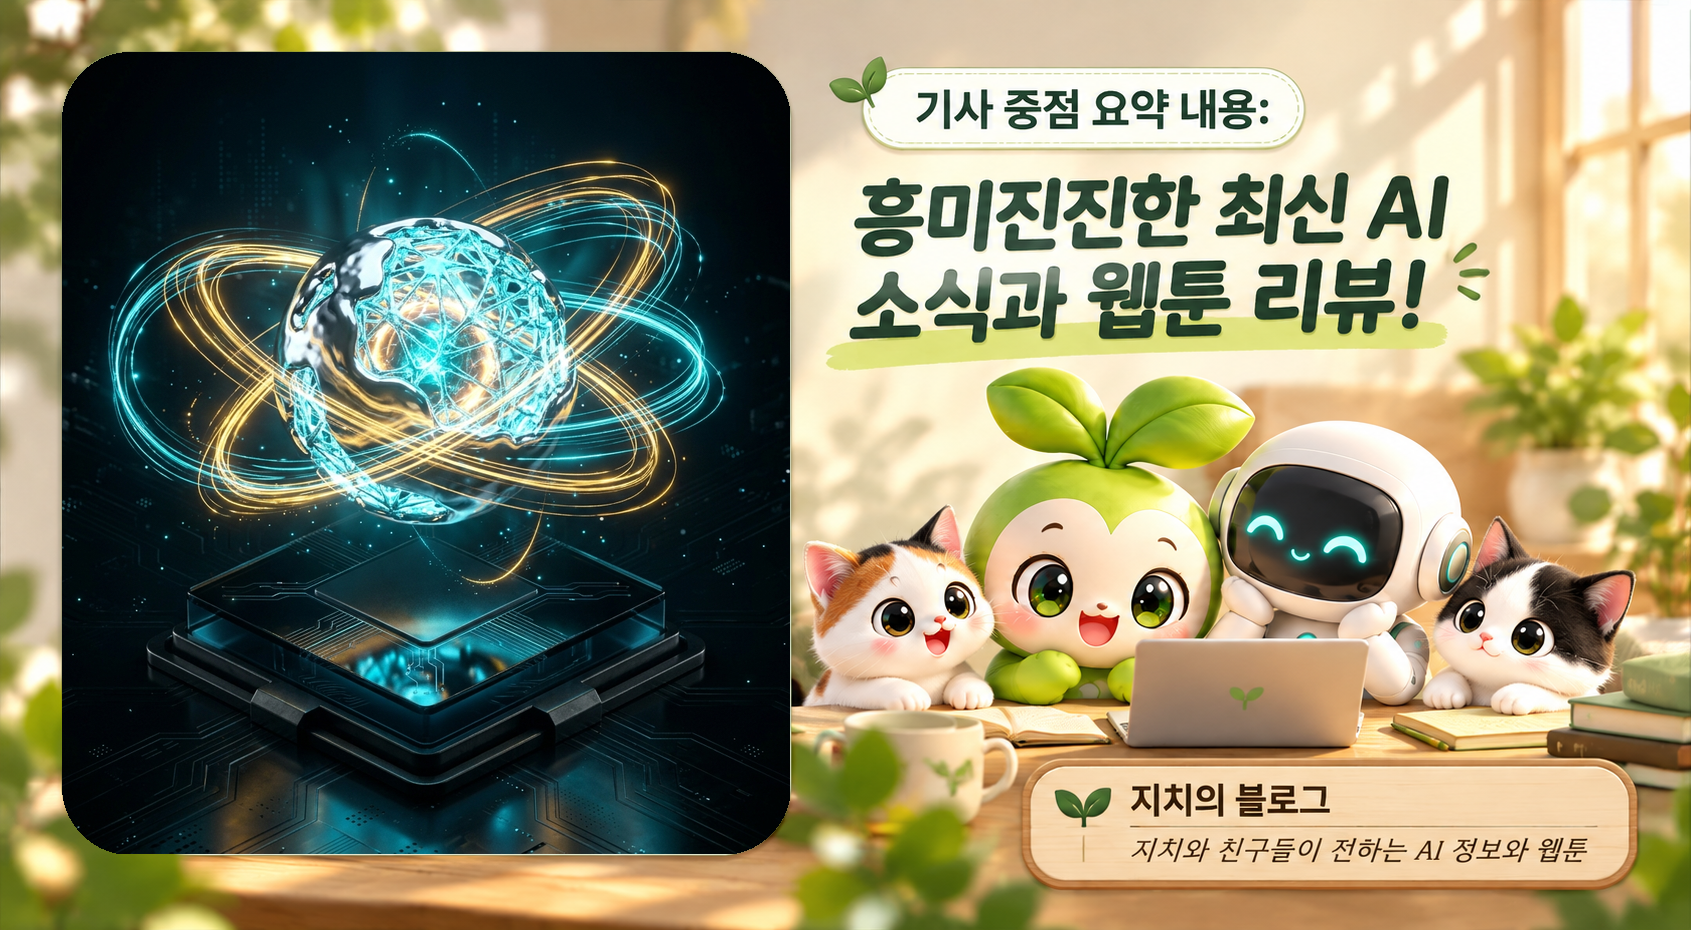
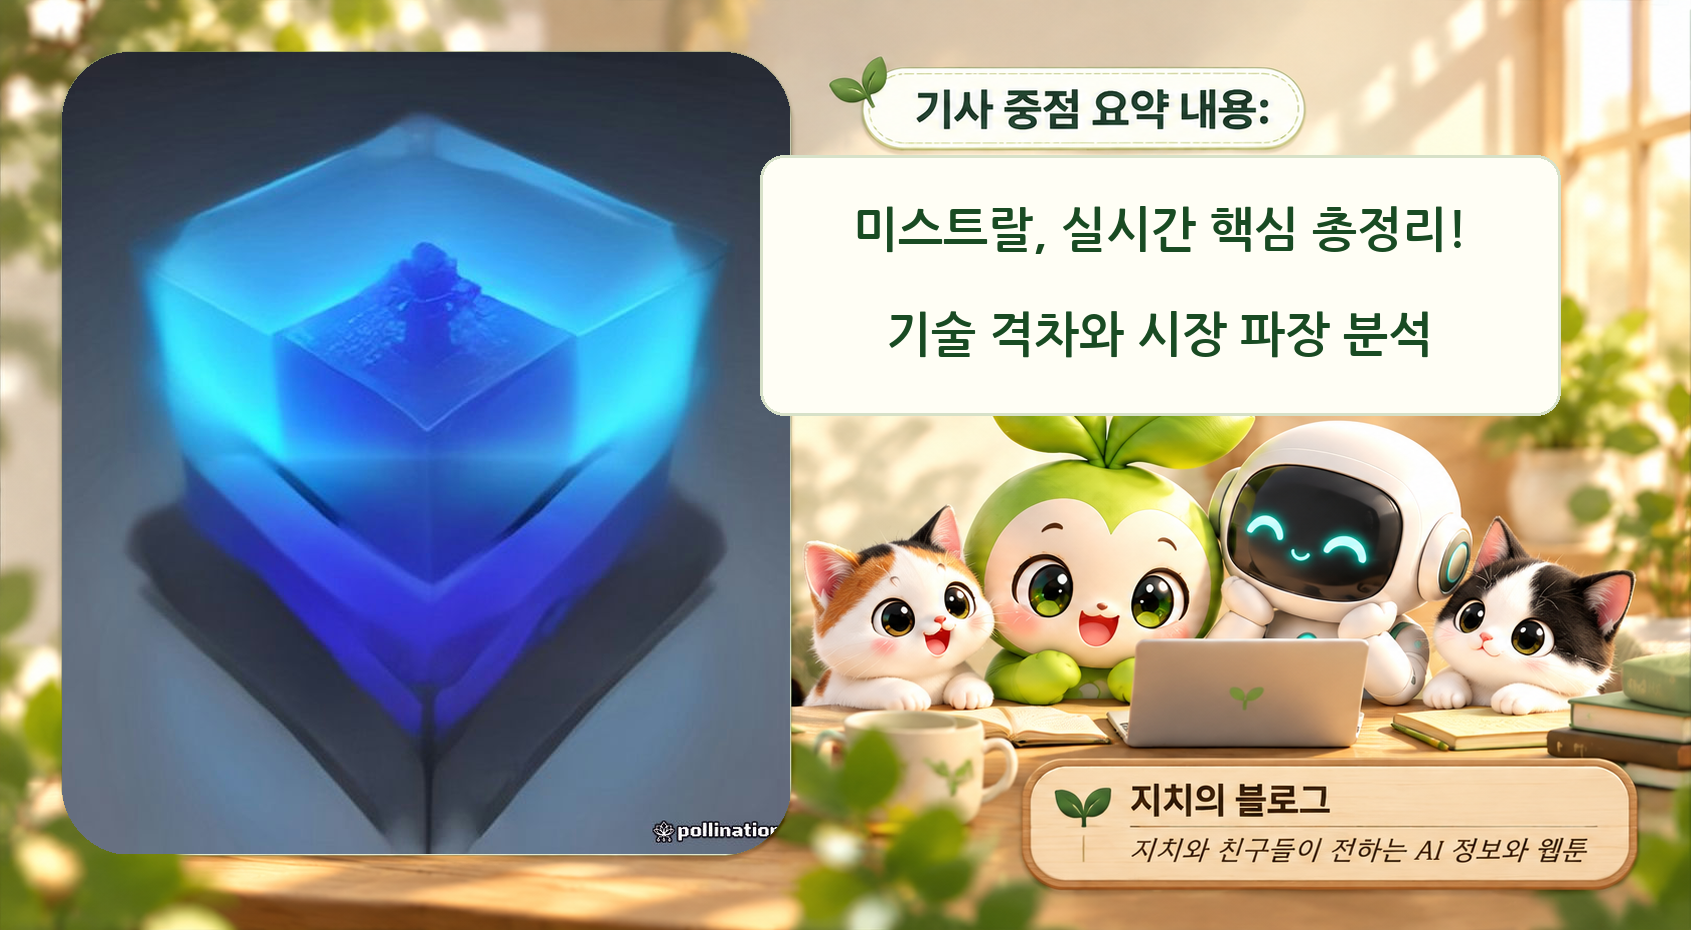
test: publish ranking #4 AI article (Mistral Realtime Voice Agent) [run-now]

diff --git a/daily_scheduler.py b/daily_scheduler.py
@@ -27,13 +27,16 @@ def run_ai_article_routine(article_index: int):
         print("❌ 수집된 최신 기사가 없습니다.")
         return False
 
-    # 이미 블로그에 발행된 기사 제외 후 신선한 기사 선택
-    fresh_articles = [
-        a for a in all_articles
-        if not history_checker.is_article_already_published_live(a["title"])
-    ]
-    pool = fresh_articles if len(fresh_articles) >= article_index else all_articles
-    target = pool[min(article_index - 1, len(pool) - 1)]
+    # 사장님 지정 순위(예: 4위 실시간 테스트) 또는 미발행 최신 기사 타겟팅
+    if 1 <= article_index <= len(all_articles):
+        target = all_articles[article_index - 1]
+    else:
+        fresh_articles = [
+            a for a in all_articles
+            if not history_checker.is_article_already_published_live(a["title"])
+        ]
+        pool = fresh_articles if fresh_articles else all_articles
+        target = pool[0]
 
     # 1. 원문 크롤링 기반 10년 차 IT 테크 기자의 심층 분석 원고 생성 (Gemini 2.5 / GPT-4o)
     print(f"🤖 AI 기사 심층 분석 원고 생성 중... ({target['title'][:25]}...)")
@@ -165,11 +168,18 @@ def execute_daily_sequence():
 
         print("\n🎉 오늘 하루치 정규 기사 3편 발행 완료! (웹툰 자동화는 사장님 지시로 안전 보류되었습니다)")
     else:
+        target_idx = int(os.environ.get("TARGET_ARTICLE_INDEX", "4"))
+        for arg in sys.argv:
+            if arg.startswith("--article-index="):
+                try:
+                    target_idx = int(arg.split("=")[1])
+                except Exception:
+                    pass
         print("=" * 60)
-        print("🚀 [즉시 실행 모드: AI 기사 1편 집중 발행 가동 (웹툰 안전 보류)]")
+        print(f"🚀 [즉시 실행 테스트: AI 기사 #{target_idx}편 집중 발행 가동 (웹툰 안전 보류)]")
         print("=" * 60)
-        run_ai_article_routine(1)
-        print("\n🎉 AI 기사 1편 발행 완료!")
+        run_ai_article_routine(target_idx)
+        print(f"\n🎉 AI 기사 #{target_idx}편 발행 완료!")
 
 
 def start_daily_scheduler():

diff --git a/history_checker.py b/history_checker.py
@@ -1,6 +1,7 @@
 import urllib.request
 import urllib.parse
 import re
+import html
 
 def get_live_published_titles(blog_id: str = "jcjung1401", category_no: int = 7) -> list:
     """
@@ -19,7 +20,8 @@ def get_live_published_titles(blog_id: str = "jcjung1401", category_no: int = 7)
             for t_bytes, d_bytes in matches:
                 try:
                     # %EB%8D... 형태를 언쿼트하여 바이트 변환 후 UTF-8로 완벽 복원!
-                    clean_title = urllib.parse.unquote_to_bytes(t_bytes.decode('ascii', errors='ignore')).decode('utf-8', errors='ignore')
+                    raw_str = t_bytes.decode('ascii', errors='ignore')
+                    clean_title = html.unescape(urllib.parse.unquote_plus(raw_str, encoding='utf-8', errors='ignore'))
                     clean_date = d_bytes.decode('utf-8', errors='ignore')
                     published_items.append({"title": clean_title, "date": clean_date})
                 except Exception:
